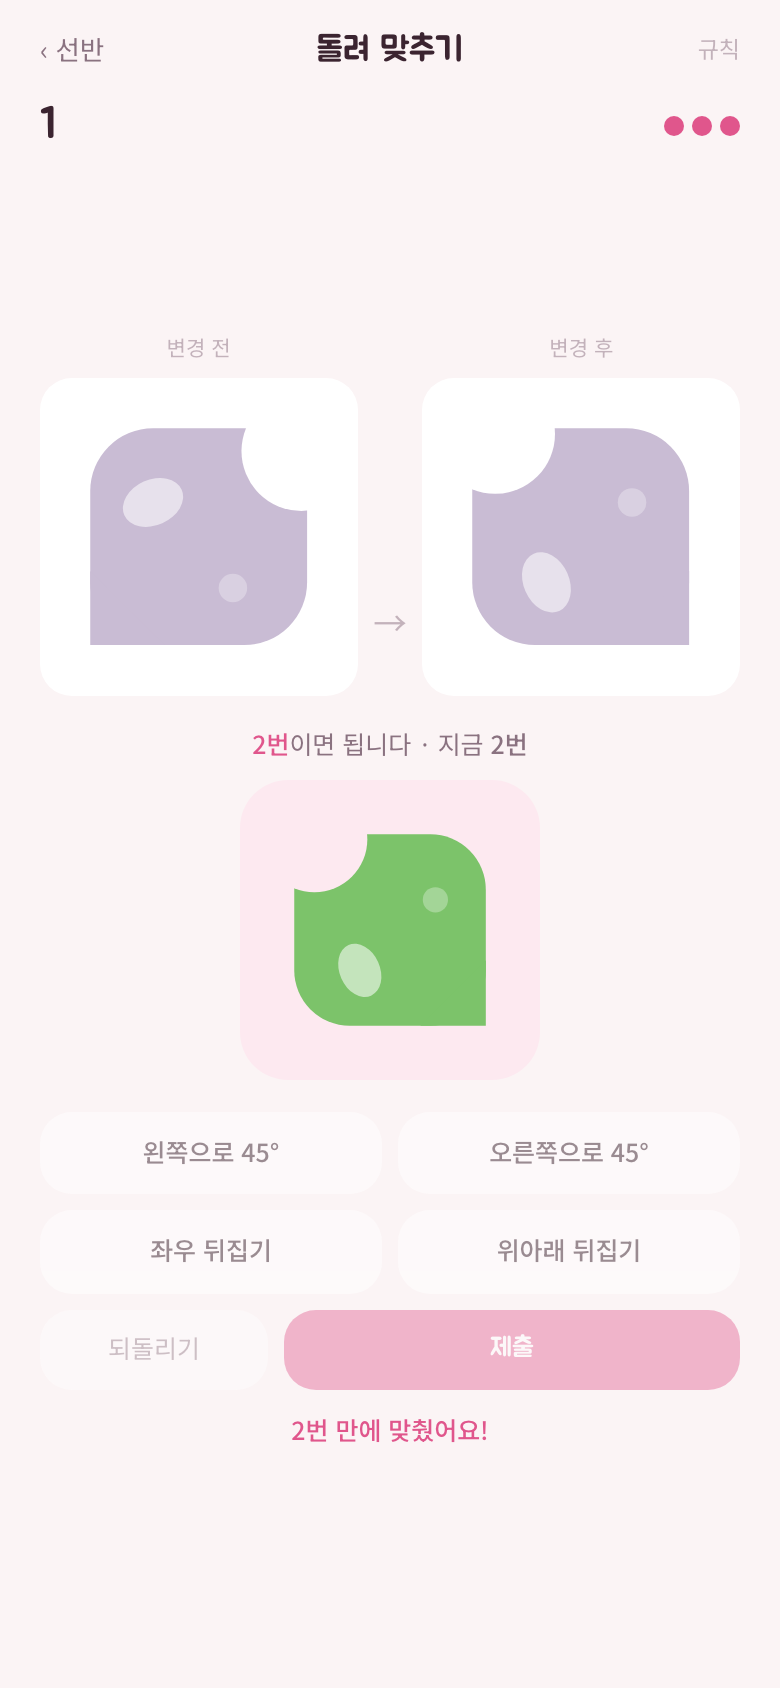
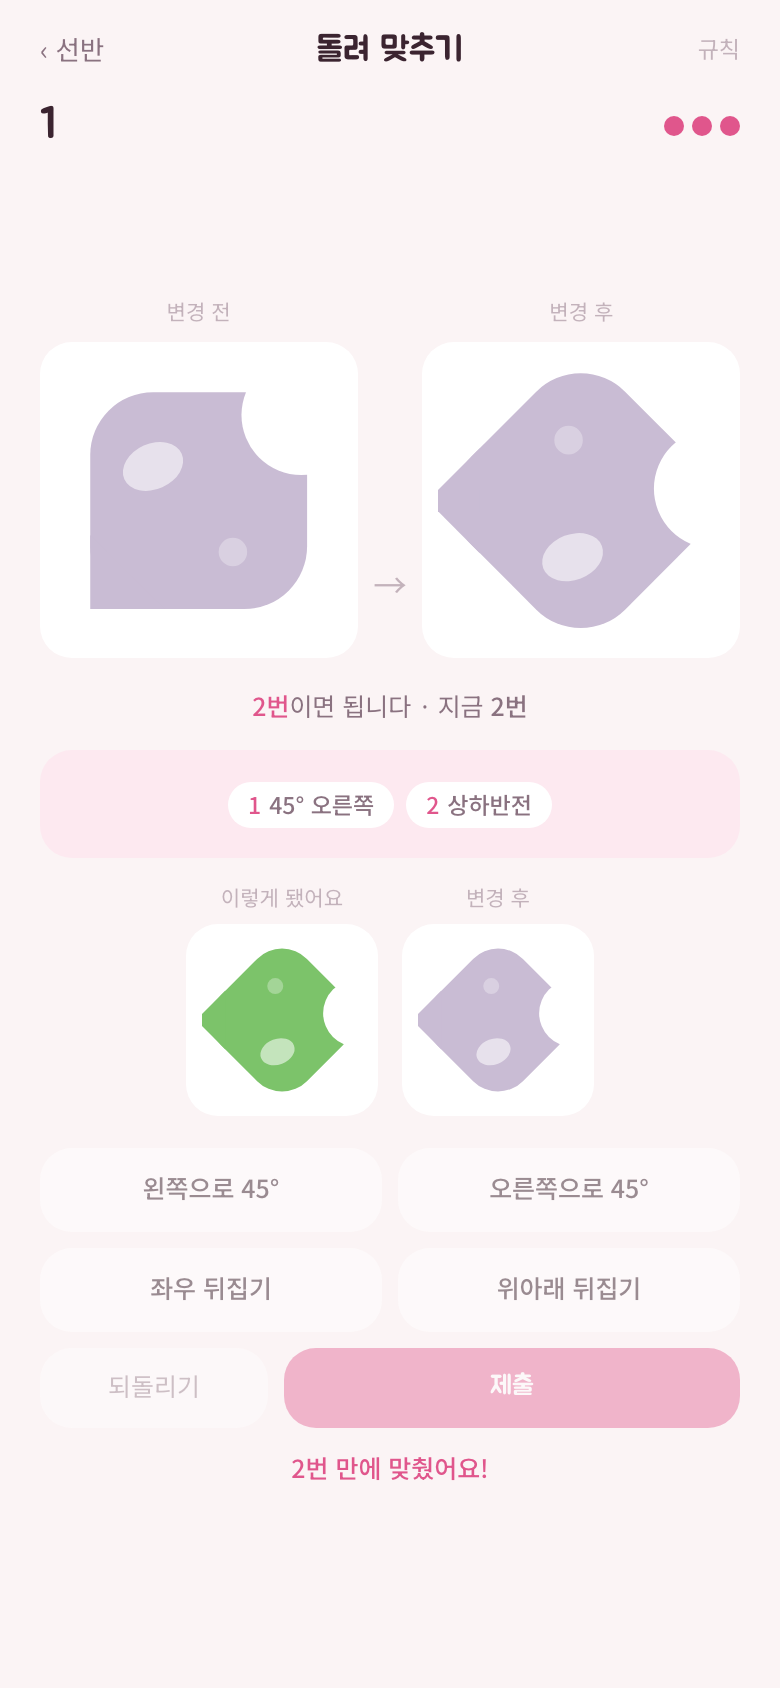
돌려 맞추기 - 결과를 숨기고 고른 순서를 쌓아 보이기
누른 대로 젤리가 움직이면 머릿속에서 굴려볼 이유가 없다. 아무 버튼이나
눌러보다 모양이 맞으면 제출하는 게임이 된다. 결과는 제출하고 나서야 보여준다.

대신 고른 손질을 순서대로 쌓아 둔다. 굴려보는 건 문제지만 뭘 눌렀는지 외우는
건 문제가 아니다. 제출하면 어떻게 됐는지 변경 후와 나란히 놓아 준다 - 배우라고
주는 것이다.

틀렸을 때 같은 문제를 다시 주던 것도 고쳤다. 아까 눌러본 것에 하나씩 더해
보며 맞추게 되어서, 결과를 숨긴 의미가 없어진다.

제출 전 화면에 그려지는 젤리가 둘(변경 전·후)뿐인 것을 확인했다.

diff --git a/src/screens/FoldScreen.tsx b/src/screens/FoldScreen.tsx
@@ -9,6 +9,7 @@ import {
   type Pose,
   type Puzzle,
   MOVE_NAME,
+  MOVE_SHORT,
   START,
   applyAll,
   makePuzzle,
@@ -139,11 +140,9 @@ export function FoldScreen() {
       });
       return;
     }
-    // 틀려도 판은 그대로 둔다. 다시 해보라고.
-    window.setTimeout(() => {
-      setMoves([]);
-      setMark(undefined);
-    }, 1500);
+    // 같은 문제를 다시 주면 아까 눌러본 것에 하나씩 더해 보며 맞추게 된다.
+    // 머릿속에서 굴려보는 게임이니 한 문제에 한 번뿐이어야 한다.
+    window.setTimeout(() => ask(solved), 2200);
   }
 
   if (rulesSeen === false) {
@@ -154,15 +153,16 @@ export function FoldScreen() {
           <div className="w-full max-w-[340px] rounded-3xl bg-surface p-6">
             <h2 className="mb-4 text-center font-display text-xl">가장 적은 횟수로</h2>
             <p className="text-sm leading-relaxed text-ink-soft">
-              왼쪽 젤리를 오른쪽 젤리 모양으로 만드세요. 아래 버튼을 눌러 돌리거나 뒤집으면
-              가운데 젤리가 따라 움직여요.
+              왼쪽 젤리를 오른쪽 젤리 모양으로 만드세요. 아래 버튼을 눌러 돌리거나 뒤집을
+              순서를 짜고, 다 짰으면 제출합니다.
             </p>
             <p className="mt-3 rounded-2xl bg-accent-bg px-4 py-3 text-sm leading-relaxed text-accent">
-              <b className="font-medium">모양만 맞으면 안 돼요.</b> 정해진 최소 횟수로 맞춰야
-              정답입니다. 몇 번이면 되는지는 미리 알려드려요.
+              <b className="font-medium">돌아가는 모습은 안 보여줘요.</b> 머릿속으로 굴려 봐야
+              합니다. 고른 순서는 화면에 쌓이니 외울 필요는 없어요.
             </p>
             <p className="mt-3 text-xs leading-relaxed text-ink-faint">
-              판이 올라가면 쓸 수 있는 버튼이 줄어듭니다. 도구가 적을수록 더 돌려 봐야 해요.
+              모양만 맞으면 안 되고 정해진 최소 횟수여야 정답입니다. 몇 번이면 되는지는 미리
+              알려드려요. 판이 올라가면 쓸 수 있는 버튼이 줄어듭니다.
             </p>
             <button
               type="button"
@@ -208,10 +208,44 @@ export function FoldScreen() {
               <b className="font-medium tabular-nums">{moves.length}번</b>
             </p>
 
-            {/* 내가 만든 모양. 가운데에 크게 둬야 두 견본과 견줘볼 수 있다. */}
-            <div className="mt-2 w-[42vw] max-w-[150px] rounded-3xl bg-accent-bg p-3">
-              <Bitten pose={now} tone={mark?.ok ? "#7CC36A" : "#8E5BC9"} />
+            {/*
+              돌아가는 모양은 안 보여준다. 보여주면 머릿속에서 굴려볼 이유가 없어져서,
+              버튼을 아무렇게나 눌러보다 맞으면 제출하는 게임이 된다.
+              대신 고른 것을 순서대로 쌓아 보여준다 - 뭘 했는지는 기억할 필요가 없어야 한다.
+            */}
+            <div className="mt-3 flex min-h-[3.4rem] w-full flex-wrap items-center justify-center gap-1.5 rounded-2xl bg-accent-bg px-3 py-2.5">
+              {moves.length === 0 ? (
+                <span className="text-xs text-ink-faint">아래에서 골라 보세요</span>
+              ) : (
+                moves.map((move, i) => (
+                  <span
+                    key={`${move}-${i}`}
+                    className="rounded-full bg-surface px-2.5 py-1 text-xs font-medium text-ink-soft"
+                  >
+                    <b className="mr-1 font-medium text-accent tabular-nums">{i + 1}</b>
+                    {MOVE_SHORT[move]}
+                  </span>
+                ))
+              )}
             </div>
+
+            {/* 제출하고 나서야 어떻게 됐는지 보여준다. 이건 배우라고 주는 것이다. */}
+            {mark ? (
+              <div className="mt-3 flex items-end gap-3">
+                <div className="flex flex-col items-center gap-1">
+                  <span className="text-tiny text-ink-faint">이렇게 됐어요</span>
+                  <div className="w-[26vw] max-w-[96px] rounded-2xl bg-surface p-2">
+                    <Bitten pose={now} tone={mark.ok ? "#7CC36A" : "#EF5D7A"} />
+                  </div>
+                </div>
+                <div className="flex flex-col items-center gap-1">
+                  <span className="text-tiny text-ink-faint">변경 후</span>
+                  <div className="w-[26vw] max-w-[96px] rounded-2xl bg-surface p-2">
+                    <Bitten pose={puzzle.target} tone="#C9BCD4" />
+                  </div>
+                </div>
+              </div>
+            ) : null}
 
             <div className="mt-4 grid w-full grid-cols-2 gap-2">
               {puzzle.gens.map((move) => (
@@ -252,7 +286,7 @@ export function FoldScreen() {
                 mark ? (mark.ok ? "font-medium text-accent" : "text-ink-soft") : "text-ink-faint"
               }`}
             >
-              {mark ? mark.why : "누른 대로 가운데 젤리가 움직여요"}
+              {mark ? mark.why : "머릿속으로 굴려 보고 제출하세요"}
             </p>
           </div>
         ) : (

diff --git a/docs/manual.html b/docs/manual.html
@@ -507,10 +507,12 @@
       <div class="body">
         <span class="eyebrow">선반 → 돌려 맞추기</span>
         <h3>돌려 맞추기</h3>
-        <p>왼쪽 젤리를 오른쪽 모양으로 만듭니다. 버튼을 누르면 가운데 젤리가 따라 움직여요. 다 만들었으면 <b>제출</b>.</p>
+        <p>왼쪽 젤리를 오른쪽 모양으로 만듭니다. 돌리고 뒤집을 순서를 짜서 <b>제출</b>하세요.</p>
         <ul class="points">
+          <li><b>돌아가는 모습은 안 보여줘요.</b> 눈앞에서 돌아가면 눌러보다 맞추면 되니까요. 머릿속으로 굴려 봐야 합니다</li>
+          <li>대신 <b>고른 순서가 화면에 쌓입니다.</b> 뭘 눌렀는지 외울 필요는 없어요</li>
           <li><b>모양만 맞으면 안 됩니다.</b> 정해진 최소 횟수로 맞춰야 정답이에요</li>
-          <li>몇 번이면 되는지는 미리 알려줍니다. 지금 몇 번 썼는지도요</li>
+          <li>제출하고 나면 어떻게 됐는지 변경 후와 나란히 보여줍니다</li>
           <li>잘못 눌렀으면 <b>되돌리기</b>로 한 칸씩 물릴 수 있어요</li>
           <li>판이 올라가면 <b>쓸 수 있는 버튼이 줄어듭니다.</b> 넷 → 셋 → 둘. 도구가 적을수록 더 돌려 봐야 해요</li>
         </ul>

diff --git a/public/manual/index.html b/public/manual/index.html
@@ -507,10 +507,12 @@
       <div class="body">
         <span class="eyebrow">선반 → 돌려 맞추기</span>
         <h3>돌려 맞추기</h3>
-        <p>왼쪽 젤리를 오른쪽 모양으로 만듭니다. 버튼을 누르면 가운데 젤리가 따라 움직여요. 다 만들었으면 <b>제출</b>.</p>
+        <p>왼쪽 젤리를 오른쪽 모양으로 만듭니다. 돌리고 뒤집을 순서를 짜서 <b>제출</b>하세요.</p>
         <ul class="points">
+          <li><b>돌아가는 모습은 안 보여줘요.</b> 눈앞에서 돌아가면 눌러보다 맞추면 되니까요. 머릿속으로 굴려 봐야 합니다</li>
+          <li>대신 <b>고른 순서가 화면에 쌓입니다.</b> 뭘 눌렀는지 외울 필요는 없어요</li>
           <li><b>모양만 맞으면 안 됩니다.</b> 정해진 최소 횟수로 맞춰야 정답이에요</li>
-          <li>몇 번이면 되는지는 미리 알려줍니다. 지금 몇 번 썼는지도요</li>
+          <li>제출하고 나면 어떻게 됐는지 변경 후와 나란히 보여줍니다</li>
           <li>잘못 눌렀으면 <b>되돌리기</b>로 한 칸씩 물릴 수 있어요</li>
           <li>판이 올라가면 <b>쓸 수 있는 버튼이 줄어듭니다.</b> 넷 → 셋 → 둘. 도구가 적을수록 더 돌려 봐야 해요</li>
         </ul>

diff --git a/src/lib/fold.ts b/src/lib/fold.ts
@@ -22,6 +22,14 @@ export const MOVE_NAME: Record<Move, string> = {
   flipV: "위아래 뒤집기",
 };
 
+/** 고른 것을 줄줄이 적을 때 쓰는 짧은 이름 */
+export const MOVE_SHORT: Record<Move, string> = {
+  left: "45° 왼쪽",
+  right: "45° 오른쪽",
+  flipH: "좌우반전",
+  flipV: "상하반전",
+};
+
 export interface Pose {
   /** 45도 단위 회전 (0~7) */
   turn: number;

diff --git a/README.md b/README.md
@@ -129,7 +129,7 @@
 | 추천 | 내 기록만으로 - 취향 프로필, 다시 만날 때, 취향에 가까운, 안 가본 길 |
 | 젤리 뽑기 | 못 고르겠을 때. 레버를 돌리면 캡슐이 투출구로 |
 | 젤리 왁뿌볼 | 왁스를 파삭 깨서 벗기면 안에서 젤리 말랑이가 나온다. 깨는 동안에도 누르고 당길 수 있다 |
-| 돌려 맞추기 | 돌리고 뒤집어 변경 후 모양으로. 최소 횟수여야 정답 |
+| 돌려 맞추기 | 돌리고 뒤집어 변경 후 모양으로. 결과는 안 보여주고 최소 횟수여야 정답 |
 | 도형 회전하기 | 돌린 것만 정답, 뒤집은 건 오답. 넷 중 하나는 반드시 거울상 함정 |
 | 길 만들기 | 같은 젤리끼리 잇되 길이 겹치면 안 되고 빈 칸도 남으면 안 된다 |
 | 개수 비교 | 젤리가 많은 쪽 빠르게 고르기. 알 크기가 매번 달라서 넓이로는 못 맞힌다 |
@@ -307,6 +307,11 @@ px 로 두면 선반의 작은 병에서 뚜껑만 두꺼워 보인다.
 
 막힌 사람에게 일반론을 다시 읽히면 안 된다. 지금 무엇이 모자란지 숫자로
 말해줘야 한다.
+
+**돌아가는 모습을 보여주면 게임이 사라진다.** 처음엔 누른 대로 젤리가 움직이게
+했는데, 그러면 머릿속에서 굴려볼 이유가 없다. 아무 버튼이나 눌러보다 모양이
+맞으면 제출하는 게임이 된다. 결과는 제출하고 나서야 보여준다. 대신 고른 순서를
+화면에 쌓아 둔다 - 굴려보는 건 문제지만 뭘 눌렀는지 외우는 건 문제가 아니다.
 
 **돌려 맞추기의 난이도는 거리가 아니라 도구 수다.** 45도씩 돌리고 뒤집으면
 갈 수 있는 모양이 열여섯뿐이라(회전 여덟 × 뒤집힘 둘), 버튼 넷을 다 주면
